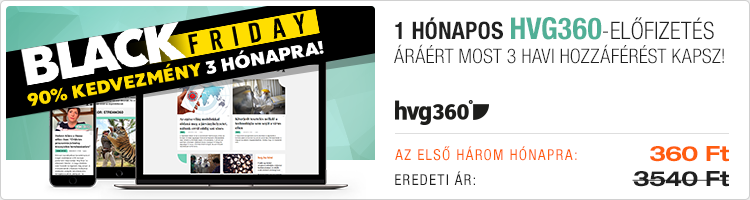
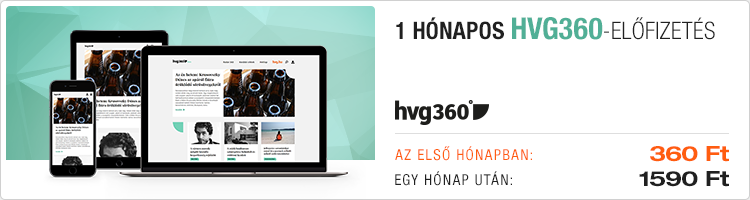
360 bf levetel

diff --git a/kulcs/templates/order/hvg360_month_no_ads/hvg360_plus_welcome.html b/kulcs/templates/order/hvg360_month_no_ads/hvg360_plus_welcome.html
@@ -200,10 +200,11 @@ img.g-img + div {
 					</p>
 					<h2 style="margin-top: 0; margin-bottom: 0px; font-family: 'Roboto', Arial, Helvetica, sans-serif; font-size: 20px; line-height: 28px;  color: #2b2b2b;">Piszkos anyagiak</h2>
 					<p style="margin-bottom: 20px; font-family: 'Roboto', Arial, Helvetica, sans-serif; font-size: 16px; line-height: 24px; color: #2b2b2b;">
-						Az előfizetésed addig tart, ameddig te akarod! Semmi trükk, semmi kisbetűs rész. 
-						Mi azzal könnyítjük meg az életed, hogy megspóroltunk rengeteg kattintást és havonta automatikusan levonjuk az előfizetési díjat a kártyádról. 
-						Ha lemondanál az exkluzív tartalmakról, a profilodba belépve megteheted. 
-						A Black Friday akciónk keretében, a 2021.november 24-26. 00:00-24:00 között vásárlók részére az első három hónap kedvezményes árát követően a havidíj 1790 forintra emelkedik.
+						Mi azzal könnyítjük az életed, hogy megspóroltunk rengeteg kattintást és havonta 
+						automatikusan levonjuk az előfizetési díjat a kártyádról. Ha lemondanál az 
+						exkluzív tartalmakról a profilodba belépve megteheted. A bevezető, 360 forintos 
+						előfizetési díjad 1 hónapig érvényes. Ezt követően a havidíj 1790 forintra 
+						emelkedik.
 					</p>
 					<h2 style="margin-top: 0; margin-bottom: 0px; font-family: 'Roboto', Arial, Helvetica, sans-serif; font-size: 20px; line-height: 28px;  color: #2b2b2b;">hvg360+</h2>
 					<p style="margin-bottom: 20px; font-family: 'Roboto', Arial, Helvetica, sans-serif; font-size: 16px; line-height: 24px; color: #2b2b2b;">

diff --git a/kulcs/templates/order/hvg360_welcome.html b/kulcs/templates/order/hvg360_welcome.html
@@ -239,8 +239,8 @@ img.g-img + div {
 						<p style="margin-bottom: 20px; font-family: 'Roboto', Arial, Helvetica, sans-serif; font-size: 16px; line-height: 24px; color: #2b2b2b;">
 							Az előfizetésed addig tart, ameddig te akarod! Semmi trükk, semmi kisbetűs rész. 
 							Mi azzal könnyítjük meg az életed, hogy megspóroltunk rengeteg kattintást és havonta automatikusan levonjuk az előfizetési díjat a kártyádról. 
-							Ha lemondanál az exkluzív tartalmakról, a profilodba belépve megteheted. 
-							A Black Friday akciónk keretében, a 2021.november 24-26. 00:00-24:00 között vásárlók részére az első három hónap kedvezményes árát követően a havidíj 1590 forintra emelkedik.
+							Ha lemondanál az exkluzív tartalmakról, a profilodba belépve megteheted.
+							Az első hónap kedvezményes árát követően a havidíj 1590 forintra emelkedik.
 						</p>
 						<h2 style="margin-top: 0; margin-bottom: 0px; font-family: 'Roboto', Arial, Helvetica, sans-serif; font-size: 20px; line-height: 28px;  color: #2b2b2b;">Kérdésed van?</h2>
 						<p style="margin-bottom: 20px; font-family: 'Roboto', Arial, Helvetica, sans-serif; font-size: 16px; line-height: 24px; color: #2b2b2b;">
